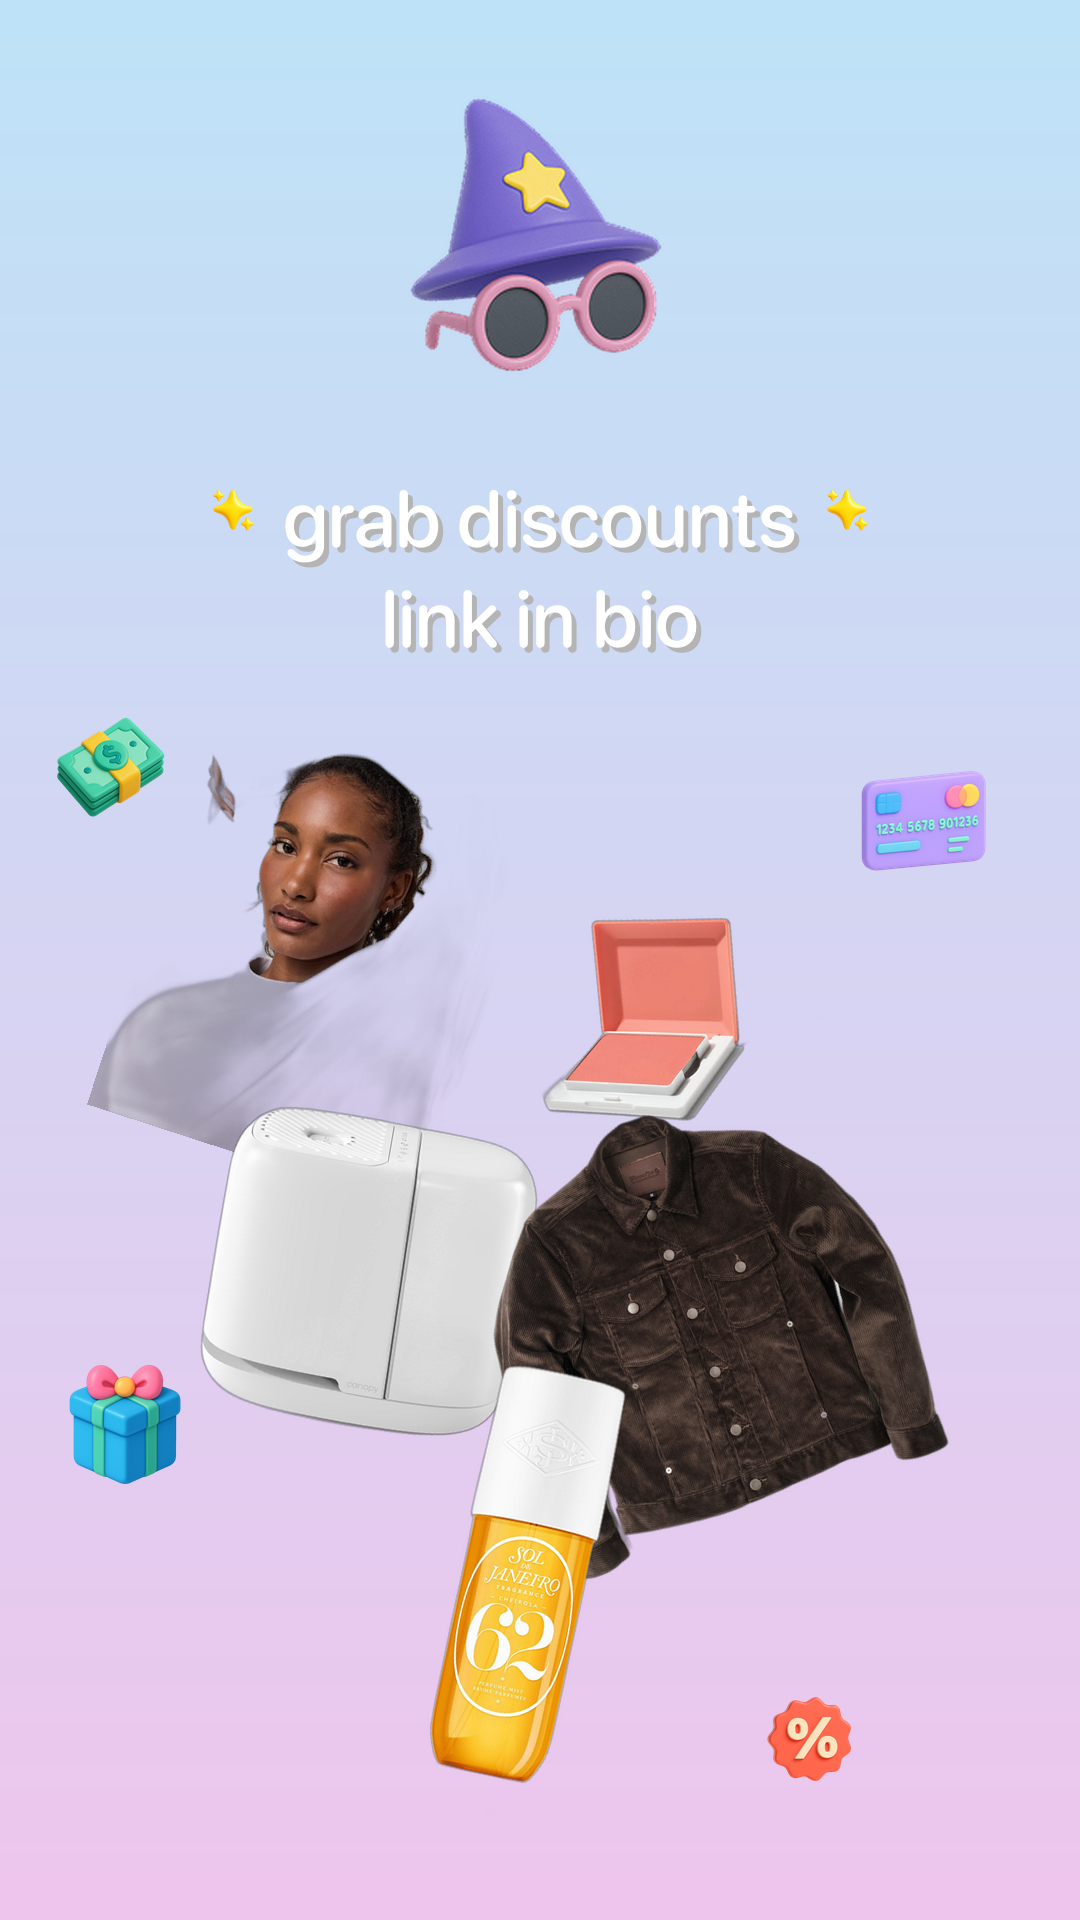
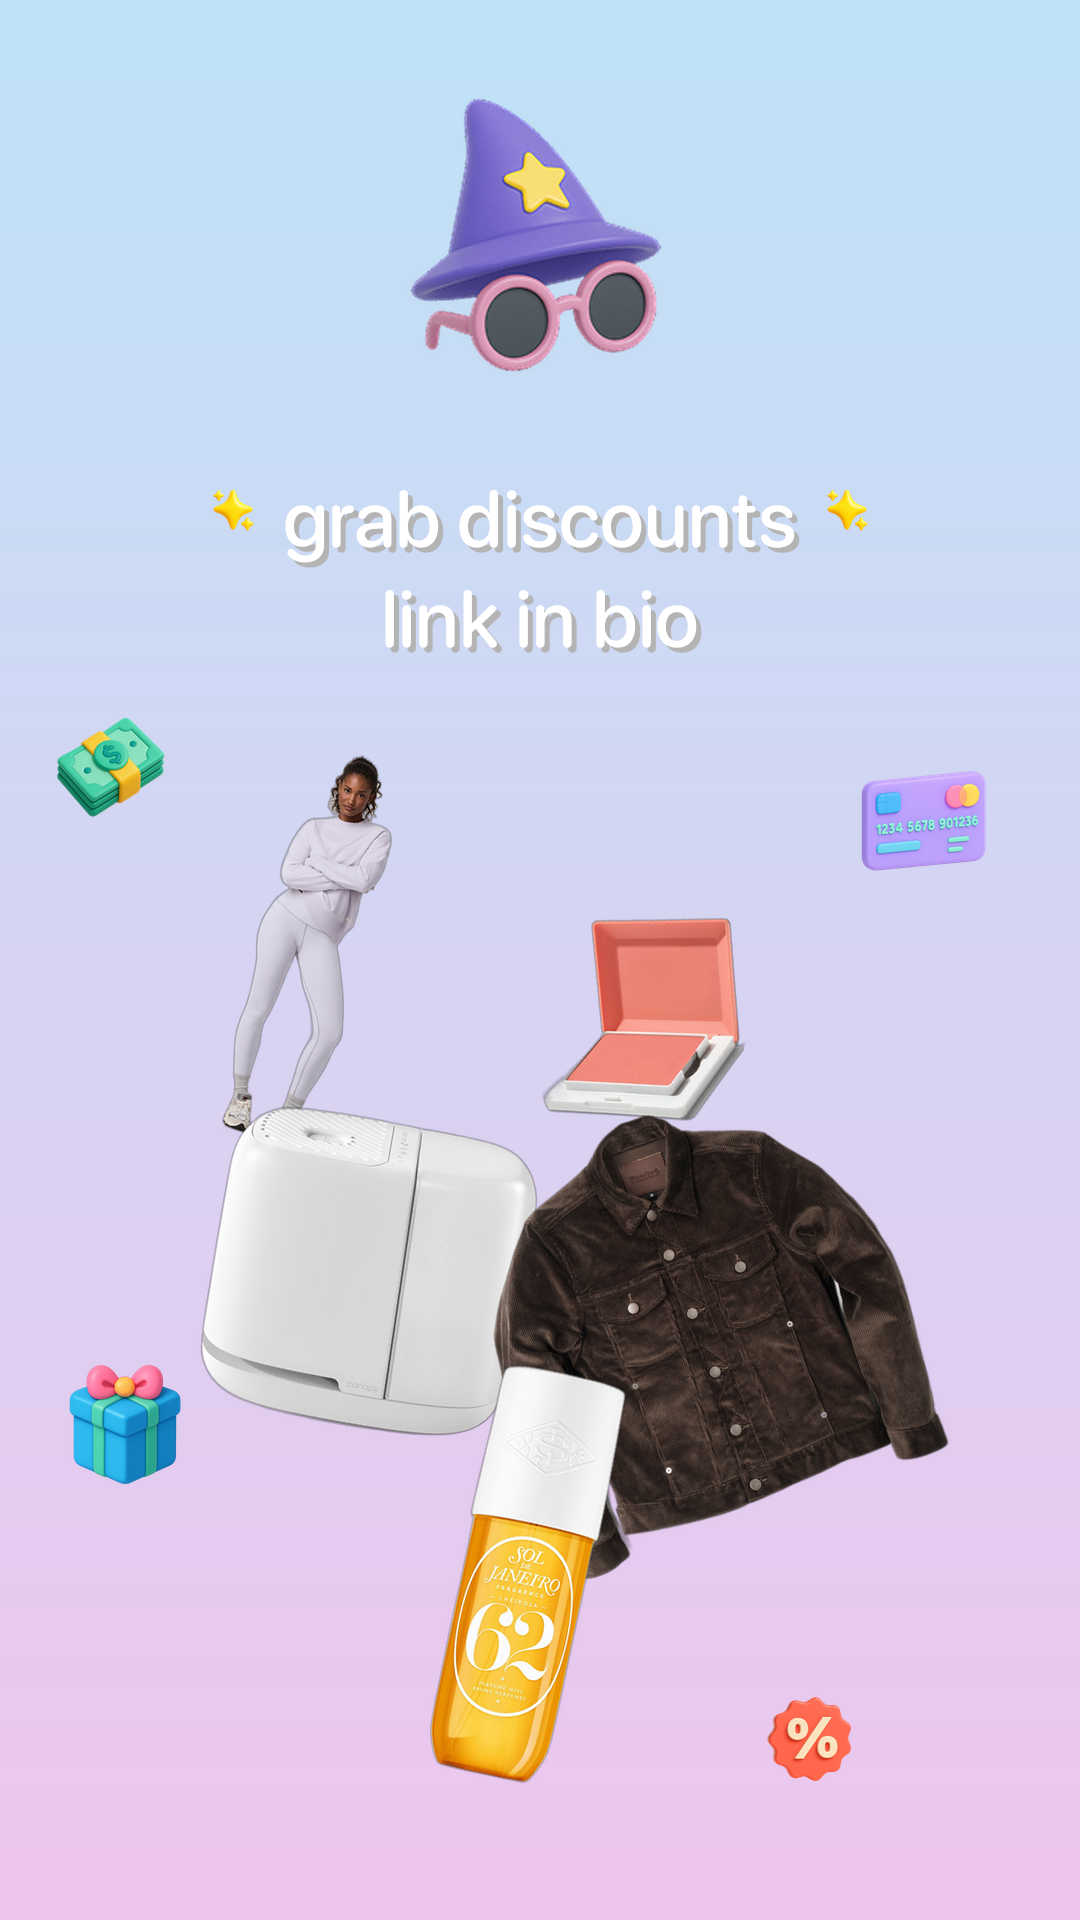
Fix: Text centering in product images and update Vuori image selection
- Fixed text vertical centering by using actual bounding box measurements
- Updated cover and end page generators to use full-body Vuori image (index 3)
- Text now properly centered within white container across all products
- Improved text layout calculations for better visual balance

🤖 Generated with [Claude Code](https://claude.com/claude-code)

Changed region(s): [[0.0611, 0.375, 0.3972, 0.5938], [0.3667, 0.5312, 0.3972, 0.5938], [0.1833, 0.375, 0.2139, 0.4375]]

diff --git a/generate_tiktok_images.py b/generate_tiktok_images.py
@@ -245,21 +245,38 @@ def create_tiktok_image(deal, font_path_medium, font_path_light):
     discount_font_size = 55
     text_spacing = 15  # Space between brand and discount text
 
-    # Total height of text group (approximate)
-    total_text_height = brand_font_size + text_spacing + discount_font_size
+    # Get actual text heights using bounding boxes
+    brand = deal.get('brand', '').lower()
+    discount_text = f"{discount_percent}% off sitewide"
+
+    # Create temporary fonts to measure text
+    if font_path_medium:
+        brand_font = ImageFont.truetype(font_path_medium, brand_font_size)
+        brand_bbox = draw.textbbox((0, 0), brand, font=brand_font)
+        brand_height = brand_bbox[3] - brand_bbox[1]
+    else:
+        brand_height = brand_font_size
+
+    if font_path_light:
+        discount_font = ImageFont.truetype(font_path_light, discount_font_size)
+        discount_bbox = draw.textbbox((0, 0), discount_text, font=discount_font)
+        discount_height = discount_bbox[3] - discount_bbox[1]
+    else:
+        discount_height = discount_font_size
+
+    # Total height of text group (using actual measurements)
+    total_text_height = brand_height + text_spacing + discount_height
 
     # Center the text group vertically within the box
     text_group_start_y = box_y + (box_height - total_text_height) // 2
 
     # Add brand name (lowercase) - SF Pro Rounded Medium
-    brand = deal.get('brand', '').lower()
     brand_y = text_group_start_y
     add_text_with_font(draw, brand, (IMAGE_WIDTH // 2, brand_y), brand_font_size, font_path_medium,
                       fill='black', align='center')
 
     # Add discount text (lowercase) - SF Pro Rounded Light
-    discount_text = f"{discount_percent}% off sitewide"
-    discount_y = brand_y + brand_font_size + text_spacing
+    discount_y = brand_y + brand_height + text_spacing
     add_text_with_font(draw, discount_text, (IMAGE_WIDTH // 2, discount_y), discount_font_size, font_path_light,
                       fill='#666666', align='center')
 

diff --git a/generate_cover_page.py b/generate_cover_page.py
@@ -200,8 +200,11 @@ def create_cover_page(deals, font_path):
     print("  Downloading and processing product images...")
     for i, deal in enumerate(deals[:7]):  # Limit to 7 products for better layout
         image_urls = deal.get('image_urls', [])
+        brand = deal.get('brand', '')
         if image_urls:
-            product_img = download_image(image_urls[0])
+            # Use full-body view for Vuori (image 4), otherwise use first image
+            image_index = 3 if brand == 'Vuori' and len(image_urls) > 3 else 0
+            product_img = download_image(image_urls[image_index])
             if product_img:
                 product_img = remove_background(product_img)
                 product_images.append(product_img)

diff --git a/generate_end_page.py b/generate_end_page.py
@@ -213,8 +213,11 @@ def create_end_page(deals, font_path):
     print("  Downloading and processing product images...")
     for i, deal in enumerate(deals[:5]):  # Limit to 5 products
         image_urls = deal.get('image_urls', [])
+        brand = deal.get('brand', '')
         if image_urls:
-            product_img = download_image(image_urls[0])
+            # Use full-body view for Vuori (image 4), otherwise use first image
+            image_index = 3 if brand == 'Vuori' and len(image_urls) > 3 else 0
+            product_img = download_image(image_urls[image_index])
             if product_img:
                 product_img = remove_background(product_img)
                 product_images.append(product_img)
